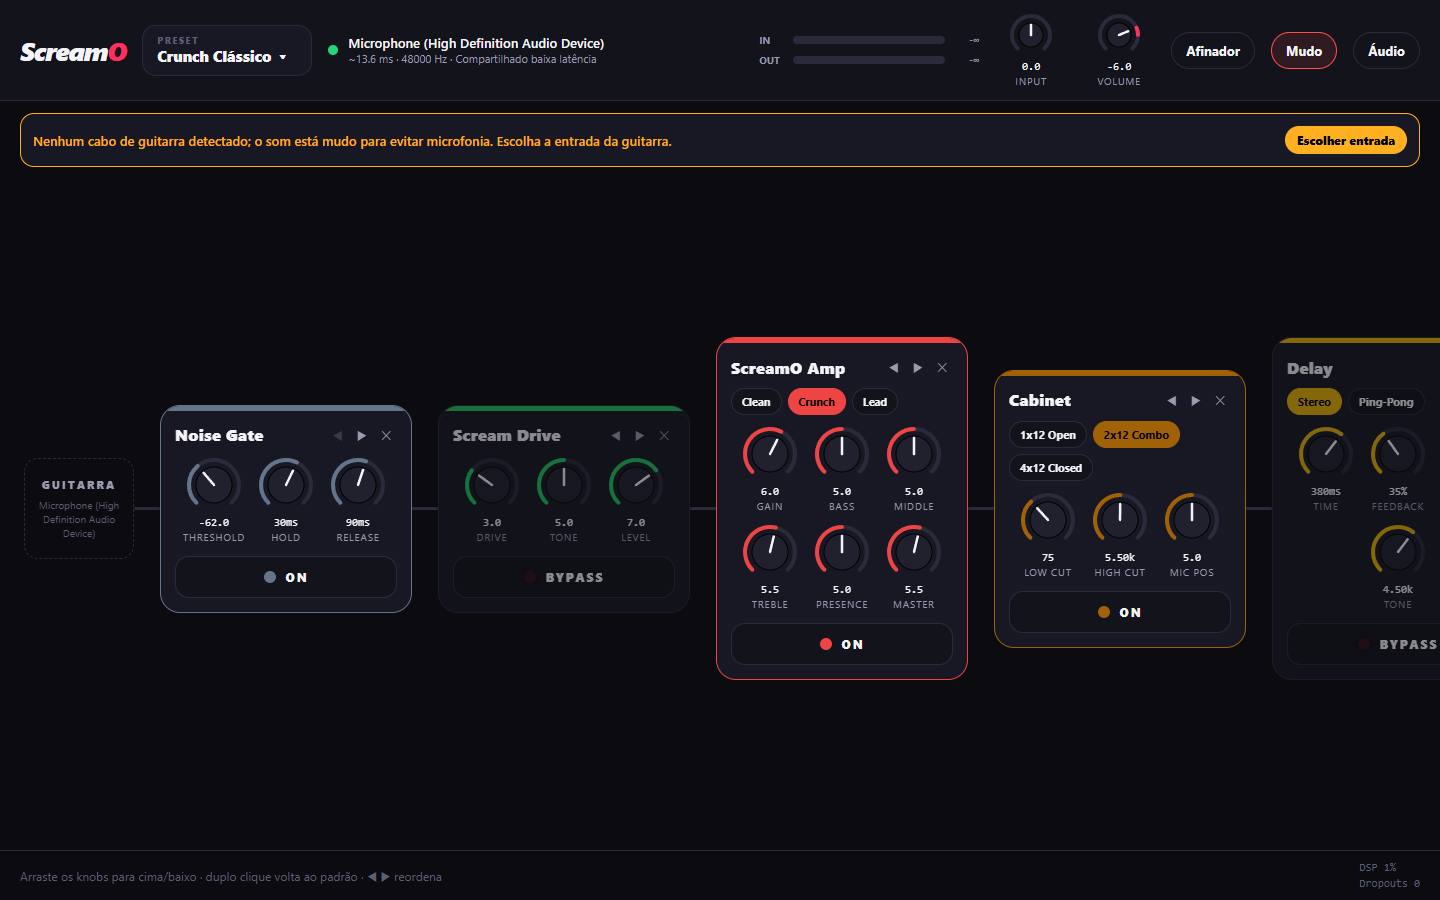
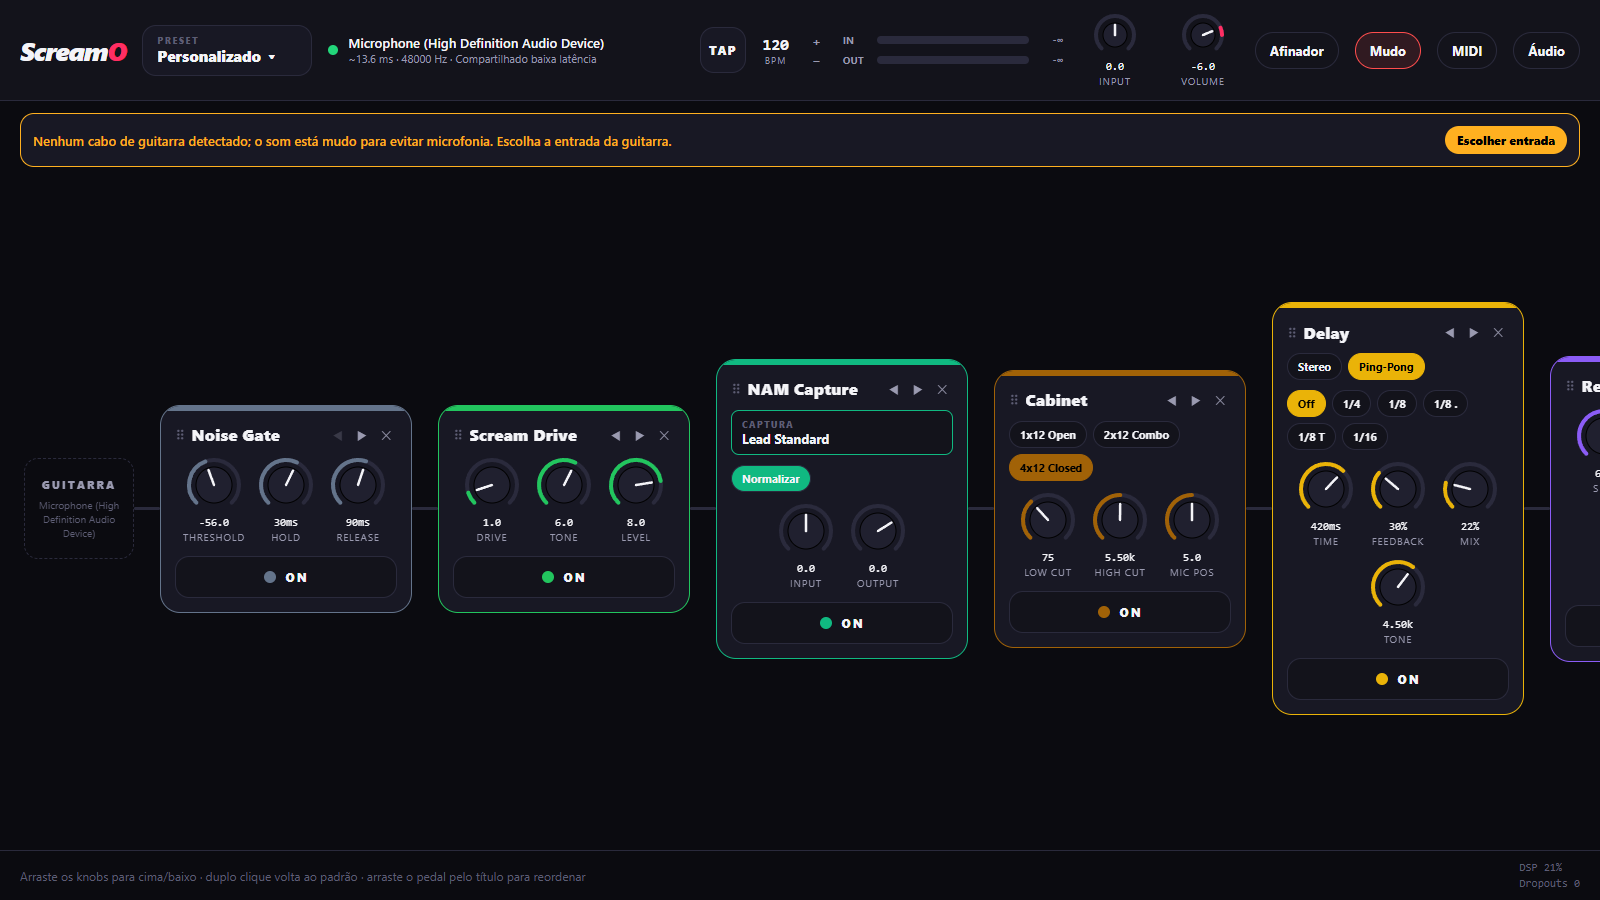
Docs: recursos novos e roadmap nas issues
- README descreve NAM, IR, BPM, MIDI, looper, arrastar e bandeja; a
  checklist de roadmap deu lugar ao link das issues
- ADDING_EFFECTS cobre os campos file/tempo e o tipo "actions"
- Screenshot atualizado

Claude-Session: https://claude.ai/code/session_01TeejoEQaynLoWRzzTYB3bi

diff --git a/README.md b/README.md
@@ -42,23 +42,44 @@ Uma **ponte com resampler adaptativo** mantém o buffer no alvo, corrigindo o
 drift dos relógios e convertendo taxas diferentes (ex.: cabo em 44,1 kHz, fone
 em 48 kHz) sem estalos e sem a latência ir crescendo.
 
-## Efeitos (12)
+## Efeitos (15)
 
 | Categoria | Efeitos |
 |---|---|
 | Dinâmica | Noise Gate, Compressor |
 | Drive | Scream Drive (estilo TS), Buzzsaw (high gain), Fuzz Face-Off |
-| Amp | ScreamO Amp: canais Clean / Crunch / Lead, tone stack, presence |
-| Caixa | Cabinet: 1x12 aberta, 2x12 combo, 4x12 fechada, posição do mic |
+| Amp | ScreamO Amp: canais Clean / Crunch / Lead · **NAM Capture** (capturas `.nam`) |
+| Caixa | Cabinet (1x12, 2x12, 4x12, posição do mic) · **IR Cabinet** (IRs `.wav`) |
 | EQ | Graphic EQ de 7 bandas |
-| Modulação | Chorus estéreo, Tremolo |
-| Ambiência | Delay estéreo/ping-pong, Reverb (Freeverb) |
-
-Mais: afinador cromático (YIN), 6 presets de fábrica, presets do usuário,
-medidores de entrada/saída, contador de dropouts e carga de DSP.
+| Modulação | Chorus estéreo, Tremolo (com sync de BPM) |
+| Ambiência | Delay estéreo/ping-pong (com sync de BPM), Reverb (Freeverb), **Looper** |
 
 Os drives e o amp usam **oversampling 4x** nas não-linearidades (menos
 aliasing, som menos "digital").
+
+### Capturas NAM e IRs
+
+- **NAM Capture** roda arquivos do [Neural Amp Modeler](https://www.neuralampmodeler.com)
+  (milhares gratuitos em [tonehunt.org](https://tonehunt.org)). Suporta WaveNet
+  (standard/lite/feather/nano) e LSTM; a saída é validada amostra a amostra
+  contra o `NeuralAmpModelerCore` oficial (`engine/testdata/nam`). O modelo
+  standard usa ~15% de um núcleo.
+- **IR Cabinet** carrega respostas a impulso `.wav` (16/24/32 bits ou float,
+  qualquer taxa) com convolução de **latência zero**.
+- Os arquivos ficam numa biblioteca em `%APPDATA%\ScreamO\files`, são
+  escolhidos por pedal e salvos junto com o preset.
+
+### Mais recursos
+
+- **Afinador** cromático (YIN), 6 presets de fábrica e presets do usuário
+- **Tap tempo / BPM**: delay e tremolo podem seguir o BPM (1/4, 1/8,
+  1/8 pontuada, tercina, 1/16)
+- **MIDI** sem driver: MIDI Learn para pedal de expressão, footswitch
+  (liga/desliga pedal) e volume; Program Change troca de preset
+- **Looper** de até 60 s com overdub
+- **Arrastar e soltar** para reordenar a cadeia
+- Ícone na **bandeja** (abrir, mudo, sair), medidores, contador de dropouts e
+  carga de DSP
 
 ## Rodando
 
@@ -74,7 +95,8 @@ sem dependências: só o Windows 10/11 e o Edge ou Chrome, que já vêm no siste
    entrada. Enquanto nenhuma entrada de guitarra for escolhida, a saída fica
    muda, para não gerar microfonia com o microfone do notebook.
 
-Configurações e presets ficam em `%APPDATA%\ScreamO`.
+Configurações, presets e a biblioteca de IR/NAM ficam em `%APPDATA%\ScreamO`
+(ou na pasta de `SCREAMO_DATA_DIR`, útil para testes).
 
 ### Desenvolvimento
 
@@ -95,7 +117,9 @@ cd engine; cargo run -- --keep-running     # não fecha junto com a janela
 cd ui; npm run web                         # http://localhost:8081
 ```
 
-Testes do motor (estabilidade de todos os efeitos em 44,1/48/96 kHz, afinador):
+Testes do motor: estabilidade de todos os efeitos em 44,1/48/96 kHz,
+convolução contra a convolução direta, NAM contra o C++ oficial, afinador,
+looper, sync de BPM e MIDI:
 
 ```powershell
 cd engine; cargo test --release
@@ -114,10 +138,4 @@ fazem e o que o ScreamO faz diferente.
 
 ## Roadmap
 
-- [ ] Carregar IR de caixa (.wav) com convolução particionada (FFT)
-- [ ] Carregar capturas NAM (Neural Amp Modeler)
-- [ ] Tap tempo no delay e sync de BPM
-- [ ] Drag & drop para reordenar pedais
-- [ ] Looper
-- [ ] App nativo com `react-native-windows` + ícone na bandeja
-- [ ] Controle por MIDI (pedal de expressão / footswitch)
+O que está planejado fica nas [issues](https://github.com/Just-Gabe/ScreamO/issues).

diff --git a/docs/ADDING_EFFECTS.md b/docs/ADDING_EFFECTS.md
@@ -24,6 +24,8 @@ pub static DESCRIPTOR: EffectDescriptor = EffectDescriptor {
     ],
     // Dual:: dá suporte estéreo grátis para efeitos mono.
     create: |sr| Dual::boxed(|| Boost::new(sr)),
+    file: None,   // Some(FileSupport { .. }) se o efeito carrega um arquivo
+    tempo: None,  // Some(TempoSync { .. }) se um parâmetro segue o BPM
 };
 
 struct Boost {
@@ -87,6 +89,18 @@ Os testes em `dsp/mod.rs` passam sinal por **todos** os efeitos registrados em
 NaN, volume explosivo ou saída muda. O efeito novo entra nesses testes
 automaticamente.
 
+## Recursos opcionais do descritor
+
+- **Tipos de parâmetro**: `knob`/`log_knob` (contínuo), `choice` (seletor),
+  `toggle` (liga/desliga) e `actions` (botões que disparam ações, como os do
+  Looper; não são salvos no preset).
+- **`file: Some(FileSupport { kind, create, validate })`**: o efeito usa um
+  arquivo da biblioteca (`FileKind::Ir` para .wav, `FileKind::Nam` para .nam).
+  A UI mostra o seletor e o upload sozinha. Veja `ir_cab.rs` e `nam_amp.rs`.
+- **`tempo: Some(TempoSync { sync_param, target_param, target })`**: um
+  parâmetro `choice("sync", ..., SYNC_OPTIONS, 0)` faz o alvo (tempo em ms ou
+  rate em Hz) seguir o BPM global. Veja `delay.rs`.
+
 ## Regras de ouro (tempo real)
 
 `process` e `set_param` rodam na thread de áudio:
@@ -97,6 +111,8 @@ automaticamente.
 - Não-linearidades fortes? Use `Oversampler4` para evitar aliasing.
 - Efeito que cria estéreo (chorus, delay, reverb)? Implemente `Effect`
   diretamente e retorne `true` em `process`.
+- `reset()` também roda na thread de áudio (ao terminar o fade de bypass):
+  nada pesado ali.
 
 ## Blocos prontos (`dsp/util.rs`)
 

diff --git a/docs/RESEARCH.md b/docs/RESEARCH.md
@@ -58,12 +58,12 @@
    controlar o motor (cross-site WebSocket hijacking). Nomes de preset são
    validados contra path traversal.
 
-## Próximos passos inspirados nos projetos acima
+## Inspirados nos projetos acima (já implementados)
 
-- **IR de caixa** (go-dsp-guitar, todos os comerciais): convolução particionada
-  uniforme via FFT para carregar `.wav` de caixas reais.
-- **NAM**: carregar arquivos `.nam` (WaveNet/LSTM). Existe uma implementação
-  C++ de referência (`NeuralAmpModelerCore`) que pode ser portada ou
-  vinculada.
-- **Faust** (Guitarix): gerar código Rust a partir de DSP em Faust para
-  prototipar efeitos mais rápido.
+- **IR de caixa** (go-dsp-guitar, todos os comerciais): convolução com a cabeça
+  da IR direto no tempo e a cauda particionada via FFT, sem latência extra.
+- **NAM**: porte em Rust do WaveNet A1 e do LSTM do `NeuralAmpModelerCore`,
+  validado amostra a amostra contra o C++ oficial. Arquiteturas mais novas
+  (A2/FiLM) são recusadas com mensagem clara.
+
+Ideias futuras ficam nas [issues](https://github.com/Just-Gabe/ScreamO/issues).
